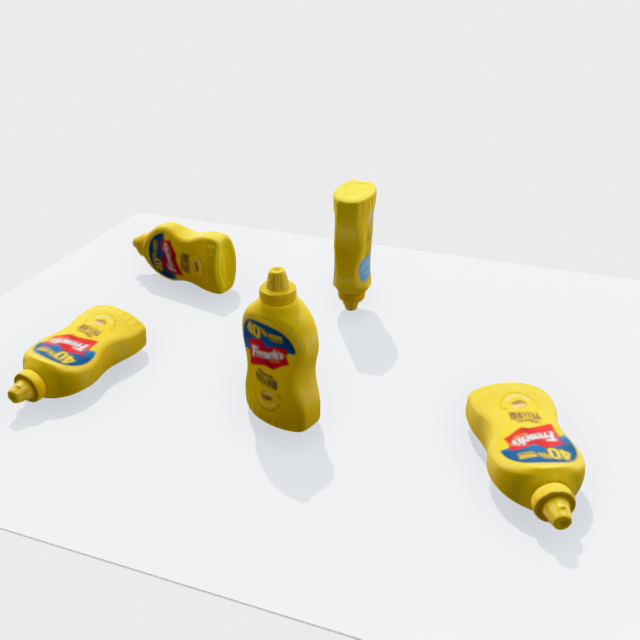
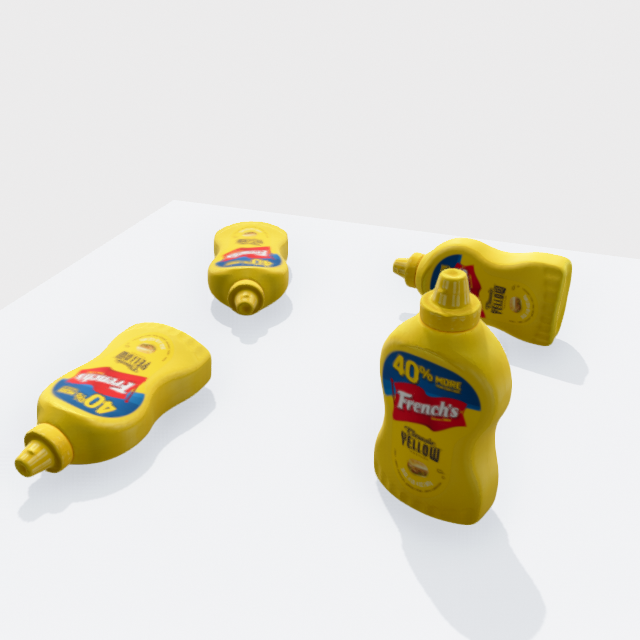
Landing page: new section copy + object-set stat figures; re-render tabletop
- 100 Everyday Objects: rewritten copy + material/weight distribution charts
  (from the AutoDex paper figures)
- new 'The Complete AutoDex Object Library' section (3D-browser intro + catalog image)
- 'Robot-Ready Assets for Every Object': rewritten section + per-feature card text
- nav: add Library, rename Features -> Assets
- tabletop feature render refreshed after impossible poses were removed (5 -> 4)

diff --git a/docs/index.html b/docs/index.html
@@ -174,7 +174,8 @@
       <a class="logo" href="index.html"><span class="dot"></span>Object Processing</a>
       <div class="nav-links">
         <a href="#objects">Objects</a>
-        <a href="#features">Features</a>
+        <a href="#library">Library</a>
+        <a href="#features">Assets</a>
         <a href="https://github.com/willi19/object_processing" target="_blank" rel="noopener">Code</a>
         <a href="https://huggingface.co/datasets/willi19/object_processing" target="_blank" rel="noopener">Hugging Face</a>
         <a class="cta" href="gallery.html">Gallery</a>
@@ -239,38 +240,61 @@
 
   <section class="block" id="objects" style="padding-top:64px;">
     <div class="wrap">
-      <h2>100 everyday objects</h2>
+      <h2>100 Everyday Objects</h2>
       <p class="lead">
-        The library spans 7 material types — plastic, metal, wood, paper, rubber, glass, and sponge —
-        from lightweight containers to heavy kitchen tools. More than 80% are off-the-shelf IKEA
-        household products, for real-world relevance and reproducibility.
+        Our object library contains 100 everyday household objects spanning seven material types —
+        plastic, metal, wood, paper, rubber, glass, and sponge. From lightweight containers to heavy
+        kitchen tools, the collection captures the diversity of objects encountered in real-world
+        manipulation. More than 80% of the objects are commercially available IKEA products, enabling
+        reproducible research.
+      </p>
+      <div class="figgrid">
+        <figure>
+          <img src="img/material_distribution.png" alt="Object count by material type" loading="lazy" onerror="this.closest('figure').style.display='none'">
+          <figcaption>Distribution by material type.</figcaption>
+        </figure>
+        <figure>
+          <img src="img/weight_distribution.png" alt="Object count by weight" loading="lazy" onerror="this.closest('figure').style.display='none'">
+          <figcaption>Distribution by weight.</figcaption>
+        </figure>
+      </div>
+    </div>
+  </section>
+
+  <section class="block" id="library">
+    <div class="wrap">
+      <h2>The Complete AutoDex Object Library</h2>
+      <p class="lead">
+        Explore the full object library through an interactive 3D browser. Every object can be
+        inspected together with the complete set of robot-ready assets generated by our processing
+        pipeline.
       </p>
       <div class="teaser" style="margin-top:30px;">
-        <img src="img/object_library.jpg" alt="The complete AutoDex object library — 100 everyday objects" onerror="this.closest('.teaser').style.display='none'">
-        <div class="cap">The complete AutoDex object library.</div>
+        <a href="gallery.html"><img src="img/object_library.jpg" alt="The complete AutoDex object library" onerror="this.closest('.teaser').style.display='none'"></a>
       </div>
     </div>
   </section>
 
   <section class="block" id="features">
     <div class="wrap">
-      <h2>What you get for every object</h2>
+      <h2>Robot-Ready Assets for Every Object</h2>
       <p class="lead">
-        Each object ships as a bundle of robot-ready assets — not just a mesh, but the collision
-        geometry, simplified viewing mesh, and the metadata a simulator or grasp planner needs.
+        Each object is distributed with a complete set of assets for visualization, simulation, and
+        robotic manipulation — not just a textured mesh, but also collision geometry, processed meshes,
+        physical metadata, and simulator descriptions.
       </p>
 
-      <p class="lead" style="margin-top:6px;font-size:14px;">Every tile below is rendered straight from one object's own assets — French's mustard, in its stable tabletop pose.</p>
+      <p class="lead" style="margin-top:6px;font-size:14px;">All examples below are rendered directly from the generated assets of a single object (French's Mustard) in one of its stable tabletop poses.</p>
 
       <div class="stages">
-        <div class="stage"><img class="shot" src="img/features/textured.png" alt="Textured mesh render" loading="lazy"><h3>Textured mesh</h3><p>High-resolution scanned <code>.glb</code> with full color texture.</p></div>
-        <div class="stage"><img class="shot" src="img/features/collision.png" alt="Collision mesh render" loading="lazy"><h3>Collision mesh</h3><p>Convex decomposition (CoACD) for fast, stable contact physics.</p></div>
-        <div class="stage"><img class="shot" src="img/features/watertight.png" alt="Watertight mesh render" loading="lazy"><h3>Watertight mesh</h3><p>Manifold-repaired geometry — hole-free and closed.</p></div>
-        <div class="stage"><img class="shot" src="img/features/simplified.png" alt="Simplified mesh render" loading="lazy"><h3>Simplified mesh</h3><p>Decimated to ~2k verts for real-time viewing.</p></div>
-        <div class="stage"><img class="shot" src="img/features/bbox.png" alt="Oriented bounding box render" loading="lazy"><h3>Bounding box</h3><p>Oriented bounding box, with mass and center.</p></div>
-        <div class="stage"><img class="shot" src="img/features/symmetry.png" alt="Symmetry axes render" loading="lazy"><h3>Symmetry axes</h3><p>Detected rotational symmetry for each object.</p></div>
-        <div class="stage"><img class="shot" src="img/features/tabletop.png" alt="Tabletop poses render" loading="lazy"><h3>Tabletop poses</h3><p>Stable resting poses on a ground plane.</p></div>
-        <div class="stage"><img class="shot" src="img/features/urdf.png" alt="Sim-ready URDF / MJCF render" loading="lazy"><h3>Sim-ready URDF / MJCF</h3><p>Drop-in description files for MuJoCo and other simulators.</p></div>
+        <div class="stage"><img class="shot" src="img/features/textured.png" alt="Textured mesh render" loading="lazy"><h3>Textured Mesh</h3><p>High-resolution scanned mesh (<code>.glb</code>) with photorealistic textures.</p></div>
+        <div class="stage"><img class="shot" src="img/features/collision.png" alt="Collision mesh render" loading="lazy"><h3>Collision Mesh</h3><p>Convex decomposition (CoACD) optimized for efficient and stable physics simulation.</p></div>
+        <div class="stage"><img class="shot" src="img/features/watertight.png" alt="Watertight mesh render" loading="lazy"><h3>Watertight Mesh</h3><p>Closed, manifold geometry suitable for geometry processing and simulation.</p></div>
+        <div class="stage"><img class="shot" src="img/features/simplified.png" alt="Simplified mesh render" loading="lazy"><h3>Simplified Mesh</h3><p>Decimated to approximately 2k vertices for efficient rendering and visualization.</p></div>
+        <div class="stage"><img class="shot" src="img/features/bbox.png" alt="Oriented bounding box render" loading="lazy"><h3>Oriented Bounding Box</h3><p>Object-aligned bounding box with mass properties and center of mass.</p></div>
+        <div class="stage"><img class="shot" src="img/features/symmetry.png" alt="Symmetry axes render" loading="lazy"><h3>Symmetry Axes</h3><p>Automatically detected rotational symmetry annotations.</p></div>
+        <div class="stage"><img class="shot" src="img/features/tabletop.png" alt="Tabletop poses render" loading="lazy"><h3>Stable Tabletop Poses</h3><p>Computed stable resting poses for tabletop manipulation.</p></div>
+        <div class="stage"><img class="shot" src="img/features/urdf.png" alt="Simulator descriptions render" loading="lazy"><h3>Simulator Descriptions</h3><p>Ready-to-use URDF and MJCF descriptions for MuJoCo and other robotics simulators.</p></div>
       </div>
     </div>
   </section>

diff --git a/wiki/index.html b/wiki/index.html
@@ -174,7 +174,8 @@
       <a class="logo" href="index.html"><span class="dot"></span>Object Processing</a>
       <div class="nav-links">
         <a href="#objects">Objects</a>
-        <a href="#features">Features</a>
+        <a href="#library">Library</a>
+        <a href="#features">Assets</a>
         <a href="https://github.com/willi19/object_processing" target="_blank" rel="noopener">Code</a>
         <a href="https://huggingface.co/datasets/willi19/object_processing" target="_blank" rel="noopener">Hugging Face</a>
         <a class="cta" href="gallery.html">Gallery</a>
@@ -239,38 +240,61 @@
 
   <section class="block" id="objects" style="padding-top:64px;">
     <div class="wrap">
-      <h2>100 everyday objects</h2>
+      <h2>100 Everyday Objects</h2>
       <p class="lead">
-        The library spans 7 material types — plastic, metal, wood, paper, rubber, glass, and sponge —
-        from lightweight containers to heavy kitchen tools. More than 80% are off-the-shelf IKEA
-        household products, for real-world relevance and reproducibility.
+        Our object library contains 100 everyday household objects spanning seven material types —
+        plastic, metal, wood, paper, rubber, glass, and sponge. From lightweight containers to heavy
+        kitchen tools, the collection captures the diversity of objects encountered in real-world
+        manipulation. More than 80% of the objects are commercially available IKEA products, enabling
+        reproducible research.
+      </p>
+      <div class="figgrid">
+        <figure>
+          <img src="img/material_distribution.png" alt="Object count by material type" loading="lazy" onerror="this.closest('figure').style.display='none'">
+          <figcaption>Distribution by material type.</figcaption>
+        </figure>
+        <figure>
+          <img src="img/weight_distribution.png" alt="Object count by weight" loading="lazy" onerror="this.closest('figure').style.display='none'">
+          <figcaption>Distribution by weight.</figcaption>
+        </figure>
+      </div>
+    </div>
+  </section>
+
+  <section class="block" id="library">
+    <div class="wrap">
+      <h2>The Complete AutoDex Object Library</h2>
+      <p class="lead">
+        Explore the full object library through an interactive 3D browser. Every object can be
+        inspected together with the complete set of robot-ready assets generated by our processing
+        pipeline.
       </p>
       <div class="teaser" style="margin-top:30px;">
-        <img src="img/object_library.jpg" alt="The complete AutoDex object library — 100 everyday objects" onerror="this.closest('.teaser').style.display='none'">
-        <div class="cap">The complete AutoDex object library.</div>
+        <a href="gallery.html"><img src="img/object_library.jpg" alt="The complete AutoDex object library" onerror="this.closest('.teaser').style.display='none'"></a>
       </div>
     </div>
   </section>
 
   <section class="block" id="features">
     <div class="wrap">
-      <h2>What you get for every object</h2>
+      <h2>Robot-Ready Assets for Every Object</h2>
       <p class="lead">
-        Each object ships as a bundle of robot-ready assets — not just a mesh, but the collision
-        geometry, simplified viewing mesh, and the metadata a simulator or grasp planner needs.
+        Each object is distributed with a complete set of assets for visualization, simulation, and
+        robotic manipulation — not just a textured mesh, but also collision geometry, processed meshes,
+        physical metadata, and simulator descriptions.
       </p>
 
-      <p class="lead" style="margin-top:6px;font-size:14px;">Every tile below is rendered straight from one object's own assets — French's mustard, in its stable tabletop pose.</p>
+      <p class="lead" style="margin-top:6px;font-size:14px;">All examples below are rendered directly from the generated assets of a single object (French's Mustard) in one of its stable tabletop poses.</p>
 
       <div class="stages">
-        <div class="stage"><img class="shot" src="img/features/textured.png" alt="Textured mesh render" loading="lazy"><h3>Textured mesh</h3><p>High-resolution scanned <code>.glb</code> with full color texture.</p></div>
-        <div class="stage"><img class="shot" src="img/features/collision.png" alt="Collision mesh render" loading="lazy"><h3>Collision mesh</h3><p>Convex decomposition (CoACD) for fast, stable contact physics.</p></div>
-        <div class="stage"><img class="shot" src="img/features/watertight.png" alt="Watertight mesh render" loading="lazy"><h3>Watertight mesh</h3><p>Manifold-repaired geometry — hole-free and closed.</p></div>
-        <div class="stage"><img class="shot" src="img/features/simplified.png" alt="Simplified mesh render" loading="lazy"><h3>Simplified mesh</h3><p>Decimated to ~2k verts for real-time viewing.</p></div>
-        <div class="stage"><img class="shot" src="img/features/bbox.png" alt="Oriented bounding box render" loading="lazy"><h3>Bounding box</h3><p>Oriented bounding box, with mass and center.</p></div>
-        <div class="stage"><img class="shot" src="img/features/symmetry.png" alt="Symmetry axes render" loading="lazy"><h3>Symmetry axes</h3><p>Detected rotational symmetry for each object.</p></div>
-        <div class="stage"><img class="shot" src="img/features/tabletop.png" alt="Tabletop poses render" loading="lazy"><h3>Tabletop poses</h3><p>Stable resting poses on a ground plane.</p></div>
-        <div class="stage"><img class="shot" src="img/features/urdf.png" alt="Sim-ready URDF / MJCF render" loading="lazy"><h3>Sim-ready URDF / MJCF</h3><p>Drop-in description files for MuJoCo and other simulators.</p></div>
+        <div class="stage"><img class="shot" src="img/features/textured.png" alt="Textured mesh render" loading="lazy"><h3>Textured Mesh</h3><p>High-resolution scanned mesh (<code>.glb</code>) with photorealistic textures.</p></div>
+        <div class="stage"><img class="shot" src="img/features/collision.png" alt="Collision mesh render" loading="lazy"><h3>Collision Mesh</h3><p>Convex decomposition (CoACD) optimized for efficient and stable physics simulation.</p></div>
+        <div class="stage"><img class="shot" src="img/features/watertight.png" alt="Watertight mesh render" loading="lazy"><h3>Watertight Mesh</h3><p>Closed, manifold geometry suitable for geometry processing and simulation.</p></div>
+        <div class="stage"><img class="shot" src="img/features/simplified.png" alt="Simplified mesh render" loading="lazy"><h3>Simplified Mesh</h3><p>Decimated to approximately 2k vertices for efficient rendering and visualization.</p></div>
+        <div class="stage"><img class="shot" src="img/features/bbox.png" alt="Oriented bounding box render" loading="lazy"><h3>Oriented Bounding Box</h3><p>Object-aligned bounding box with mass properties and center of mass.</p></div>
+        <div class="stage"><img class="shot" src="img/features/symmetry.png" alt="Symmetry axes render" loading="lazy"><h3>Symmetry Axes</h3><p>Automatically detected rotational symmetry annotations.</p></div>
+        <div class="stage"><img class="shot" src="img/features/tabletop.png" alt="Tabletop poses render" loading="lazy"><h3>Stable Tabletop Poses</h3><p>Computed stable resting poses for tabletop manipulation.</p></div>
+        <div class="stage"><img class="shot" src="img/features/urdf.png" alt="Simulator descriptions render" loading="lazy"><h3>Simulator Descriptions</h3><p>Ready-to-use URDF and MJCF descriptions for MuJoCo and other robotics simulators.</p></div>
       </div>
     </div>
   </section>
